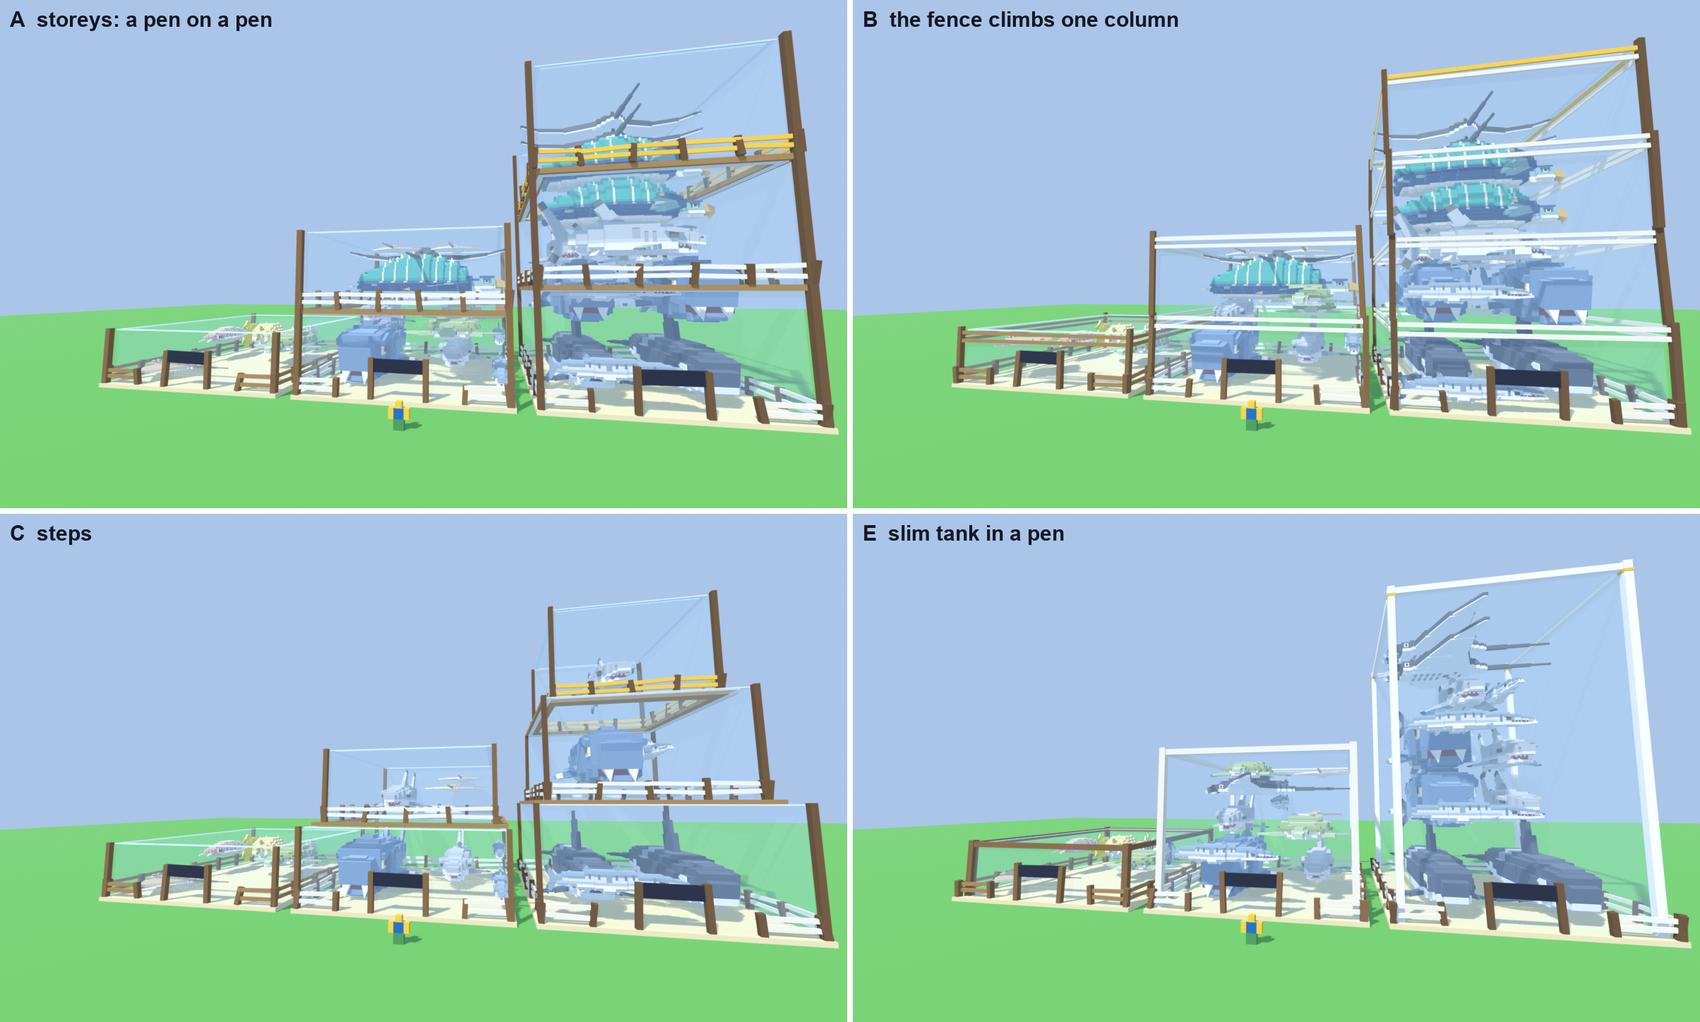
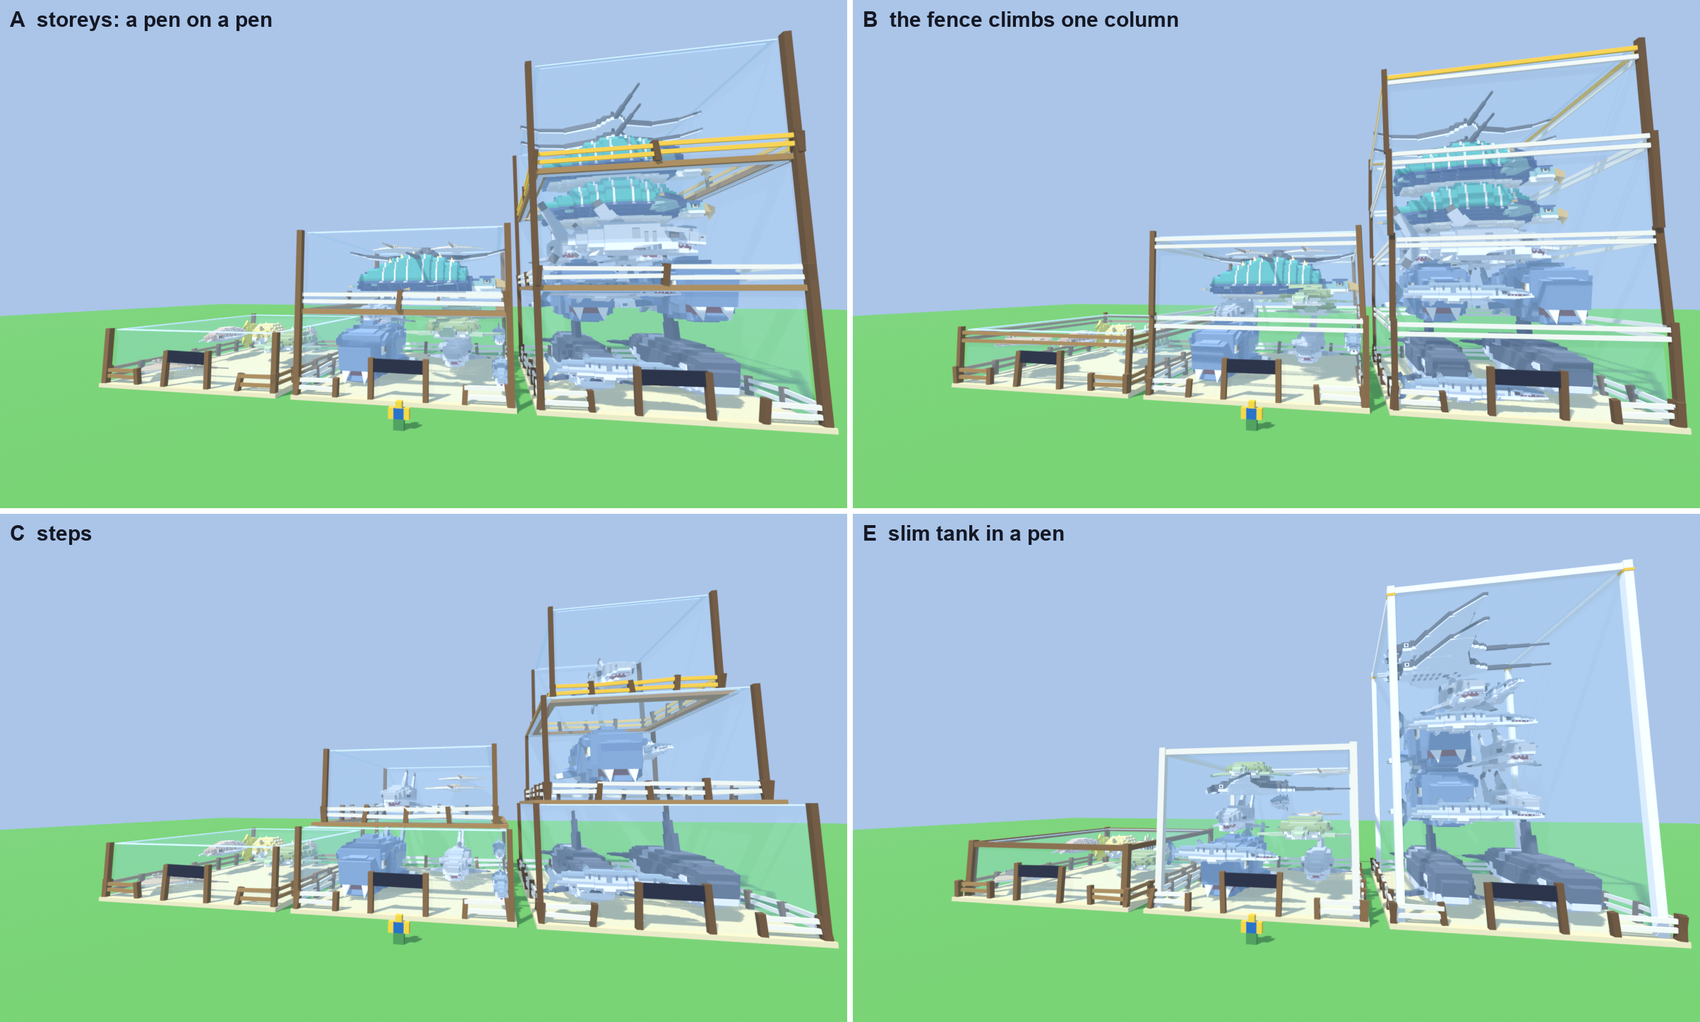
Hub review 2: crowding against today's real tanks (32 high), the laps found to be the bigger lever; A lighter; the try moved off MapBench's place

diff --git a/tools/map/pen_levels.py b/tools/map/pen_levels.py
@@ -125,7 +125,9 @@ def pen_a(k, x0, x1, stage):
                 k.box(cx, y - 1.2, s * (D / 2 - 1.5), W, 1.2, 3, WOOD, n="Deck")
                 k.box(cx + s * (W / 2 - 1.5), y - 1.2, 0, 3, 1.2, D - 6, WOOD, n="Deck")
         water(k, x0 + 1, x1 - 1, y, y + step, z0 + 1, z1 - 1)
+        pb.POST_EVERY = 25.0 if i else 10.0  # the upper fences: half the pieces
         ring(k, stage, x0, x1, z0, z1, y, gate=i == 0, top=i == n - 1)
+    pb.POST_EVERY = 10.0
     top = PLATE + HIGH[stage] + (n - 1) * 1.2
     for x in (x0, x1):
         for z in (z0, z1):

diff --git a/tools/map/hub_try.py b/tools/map/hub_try.py
@@ -23,7 +23,7 @@ from hub_kit import Kit, SAND  # noqa: E402
 
 ROOT = os.path.dirname(os.path.dirname(os.path.dirname(os.path.abspath(__file__))))
 OUT = os.path.join(ROOT, "tools", "studio", "hub_try")
-X = 9000.0  # the live map stands at 3000
+X = 14000.0  # the live map stands at 3000, the old bench (MapBench) at 9000
 STYLE = (sys.argv[1:] or ["A"])[0]
 STAGE = [2, 0, 5, 2, 0, 5, 2, 0]  # what each pen's owner has bought: a mixed server
 ROWS_AT = 900.0  # the rows of styles, this far to the side of S's middle

diff --git a/docs/design/hub-review-2.md b/docs/design/hub-review-2.md
@@ -87,7 +87,7 @@ the fish at their real size; `tools/map/pen_levels.py`):
 
 | | What it is | For | Against |
 |---|---|---|---|
-| **A storeys** (the pick) | a pen on a pen: each storey a deck with its own crooked fence. The decks are frames, open in the middle | The most fence feel, and an upgrade plainly adds a floor. The water works as one column, so nothing has to fit between floors | Needs new code: a storey has to appear, not stretch |
+| **A storeys** (the map chat's suggestion; the user's pick, after Studio) | a pen on a pen: each storey a deck with its own crooked fence. The decks are frames, open in the middle | The most fence feel, and an upgrade plainly adds a floor. The water works as one column, so nothing has to fit between floors | Needs new code: a storey has to appear, not stretch |
 | **B the fence climbs** | one column of water; crooked posts and rails climb it | The fewest new parts for that look | The rails cross the fish. Partly new code (rails have to be added as it grows) |
 | **C steps** | storeys that step in | The strongest shape | Holds the fewest: 7 of 11 and 7 of 14 in the picture. New code |
 | **E tank in a pen** | today's slim tank inside the low fence; only the tank grows | The least new code: posts and water stretch and rims lift already | The least fence feel once it is tall |
@@ -96,20 +96,27 @@ A fifth (D, a sand yard in front and a tower behind) is cut: at 38 deep the towe
 
 **Trim by stage:** bare wood, then cream rails, then a gold top rail. Small, as the old five levels were meant.
 
-**How high it has to be** (`tools/map/pen_crowd.py`). Laid out in layers with none touching, in a 50 x 60 pen:
+**How high it has to be** (`tools/map/pen_crowd.py`). The place's tanks all have water 32 high at stage 0 (the user's
+copies of Plot 4: the dump of 2026-11-22; `Config`'s comment says 14 to 20), so today is 32, 38 and 47 high at stages 0, 2
+and 5, on 52 x 84. How many others each fish is inside, on average, by the game's own laps (`AquariumService.show`), and
+the height it takes to lie them all clear in layers:
 
-| | Height to lie clear | Now (14 + 3 a stage) | Drawn (14 + 12 a stage) |
-|---|---|---|---|
-| stage 0, the Shallows' seven | 12 | 14 | 14 |
-| stage 2, eleven middle fish | 63 | 20 | 38 |
-| stage 5, seventeen late, without the three giants | 105 | 29 | 74 |
+| | Lies clear at | Today | Drawn (14 + 12 a stage) | 104 high |
+|---|---|---|---|---|
+| stage 0, the Shallows' seven | 12 | 1.3 (32 high) | **3.8** (14 high) | |
+| stage 2, eleven middle fish | 63 | 6.0 to 4.8 (32 to 38) | 5.1 (38 high) | 1.3 |
+| stage 5, fourteen late (no giants) | 105 | 7.1 (47 high) | 4.9 (74 high) | 2.7 |
+| stage 5, seventeen late, with the giants | never | 10.9 | 7.6 | 4.7 |
 
-By the game's own laps (`AquariumService.show`), how many other fish each one is inside, on average: stage 2, **8.7 at 20
-high, 5.1 at 38**; stage 5, **14.7 at 29 high, 7.6 at 74**, 4.8 at 100. So 12 a stage about halves the crowding; about 18 a
-stage (104 at the top) is what it takes to lie the late ones clear, and then only if each fish keeps to its own layer.
-Two things height can't fix: the Blue Whale (101 long), the Kraken (91) and the Megalodon (80) are longer than any 50 x 60
-pen, and each fish's height is today a fixed share of the water, so two big ones can still meet. `Taller` (3) and `Slots`
-(2) are Hugo's numbers: **12 is a proposal**. All the sizes are Normal; bigger rolls need more.
+So against today the drawn heights are **worse at stage 0, level at 2, and about a third better at 5**. The pens are smaller on the
+ground, so height first has to make up for that. A low start gives the fence feel; a tall start gives room: the user's
+call. **The bigger lever is the laps:** every fish circles the middle (a lap's reach is cut by the fish's length, and only
+its height differs), so even the Shallows' seven, who lie clear in 12 studs, meet 3.8 others at 14 high. If each fish kept
+to its own layer and its own part of the floor, the drawn heights would nearly do. That is game code, proposed to that
+chat with the heights. Two things height can't fix: the Blue Whale (101 long), the Kraken (91) and the Megalodon (80) are
+longer than a 50 x 60 pen. `Taller` (3) and `Slots` (2) are Hugo's numbers: **12 is a proposal**. All sizes are Normal.
+
+The pictures show the **layered best case**, squeezed where the height doesn't reach, not the game's laps.
 
 **Against it, honestly:** the 34-high tanks were the second cause of the hub feeling like a room of buildings, and a stage-5
 pen is 74. In S they stand at the back and sides, so nothing tall is on the line from the spawn to the strip. S from
@@ -118,13 +125,13 @@ the spawn to the strip):
 
 ![S from inside, with pens of mixed stages](../attachments/hub-s-inside.png)
 
-**In Studio:** `tools/map/hub_try.py` writes the try (`Workspace.HubTryS` and `HubTryPens`, at x 9000, with rows of the four
-styles beside it). It touches nothing under `ClaudeBlockout` and refuses to run in Play. Not loaded yet.
+**In Studio:** `tools/map/hub_try.py` writes the try (`Workspace.HubTryS` and `HubTryPens`, at x 14000, with rows of the four
+styles beside it). It touches nothing under `ClaudeBlockout` and refuses to run in Play. **Written, not run:** Studio was in Play. It has no spawn: in Play a one-off move of the character
+there comes first, then a check that the game leaves them there at 28.
 
 **To confirm with the game-code chat** before any of it: A and C need a storey added per stage; B its rails; E a bigger
 `Taller`. In all of them the gate's `SignBoard` would rise with the tank (`LIFTED`) and the foam line (`FoamLine`) would
-not, so both need another name; the trim by stage is new code. The notes give the water as 14 high at stage 0, but the
-tanks read from Play were 34 to the top: to be read in Edit. `TankWater` stays one box in A, B and E (A's storeys are drawn as separate blocks; one box over them all would do).
+not, so both need another name; the trim by stage is new code. `TankWater` stays one box in A, B and E (A's storeys are drawn as separate blocks; one box over them all would do).
 
 **What the game code leans on** (`AquariumService`, `TankRideService`, `AquariumController`, `TankPanel`):
 To confirm with the game-code chat before any of it goes in; as far as the map chat can see:

diff --git a/docs/Decisions.md b/docs/Decisions.md
@@ -5,6 +5,7 @@ written down.
 
 | Date | Decision | Detail |
 |---|---|---|
+| 2026-11-23 | **The pens grow taller, much taller, with upgrades, and merge the fence with the aquarium; S's hub-only try is wanted.** "I want the player to be able to upgrade their aquarium so it gets taller, like much taller, so it can house more fish and so it isn't as crowded", "merge these with like an aquarium style and the fence style": the user. This replaces the map chat's "richer rather than taller". Style, heights and size not picked | [hub-review-2](design/hub-review-2.md), "Pens that grow" |
 | 2026-11-22 | **The game is being sold as it is now; the code is tidied for the buyer's team without changing play.** "they are paying for the game as it is now. they will probably polish a few things. tidy as such, just make sure you dont break anything": the user. So the handover plan's stages 0 to 2 and the package, not saving or purchases. The safe tidy batch was done the same day (dead code, the stray `--help/` folder, comments, guards in both `Main`); played in Studio the same evening (boots clean, a dive and two checks pass) | [Handing the game over](plans/sale-readiness.md), [what to sort in the code](reviews/code-organisation.md) |
 | 2026-11-22 | **The reference's layout may be copied; never its look or models.** "didnt mean to say never its layout": the user, asked whether "as close to one-to-one" for the hub went against the rule "copy the loop and the feel, never its look, models or layout". So the hub can follow Ride a Dino's sizes and its U of pens one to one, with our own models and look. The rule is reworded in CLAUDE.md and the notes that repeated it | [Hub review 2](design/hub-review-2.md), section 3 |
 | 2026-11-22 | **A red fish keeps you red, and each landing back on a red fish gives less time before you must hop off, until it is nearly impossible.** "with red landings it should just be that if you jump back on its still red. The more you jump back on the less and less time on the red you have. until its pretty much impossible to hop off in time": the user. Settles progression's question 9: a red landing still refills the meter as before, and only its strain time shrinks, x0.7 for each red in a row (`Oxygen.RedShrink`; built 2026-11-22, game-code commits d8e1e0d and cf85867, not pushed). Also: the minutes to be at home in each land "leave that for now"; the seahorse sit share, 35%, "about correct". Next: the whole economy rebuilt to Ride a Dino's progression, top fish in the billions or more | [Progression](design/progression.md) |

diff --git a/docs/Sessions.md b/docs/Sessions.md
@@ -52,6 +52,9 @@ The links open the chat in the Claude app on the PC it runs on.
   as an unseen swim box; fence posts are named `FencePost` so `STRETCHED` leaves them; at `ShowShare` 1 (Hugo's b4,
   kept) the Shallows' seven fit a 50 x 60 pen, bigger fish go over the fence; they would sit low, not lap in a heap. Also
   `tools/studio/water_see_buttons.luau` (water see-through live in Play) waits for Studio.
+  **2026-11-23:** the user wants the pens to grow much taller. [hub-review-2](design/hub-review-2.md), "Pens that grow", lists
+  what that needs (storeys or rails per stage, `SignBoard` and `FoamLine` names, a bigger `Taller`) and the finding that
+  **the laps crowd the fish more than the height does**: proposals, yours and Hugo's to answer. Nothing to do yet.
 - **2026-11-22, Ride a Fish UI to the game-code chat: UI review 1 committed (`df5c7d1`, `d7b00fc`). Studio is free.**
   Touched in `Controllers/`: `AuraController` (no hub-button hooks; `shop`/`shopOpen` kept for `b2_shop_check.py`) and
   `StallController` (new). New `src/shared/Products.luau`: every Id 0, the client only prompts; grants are the server's.
